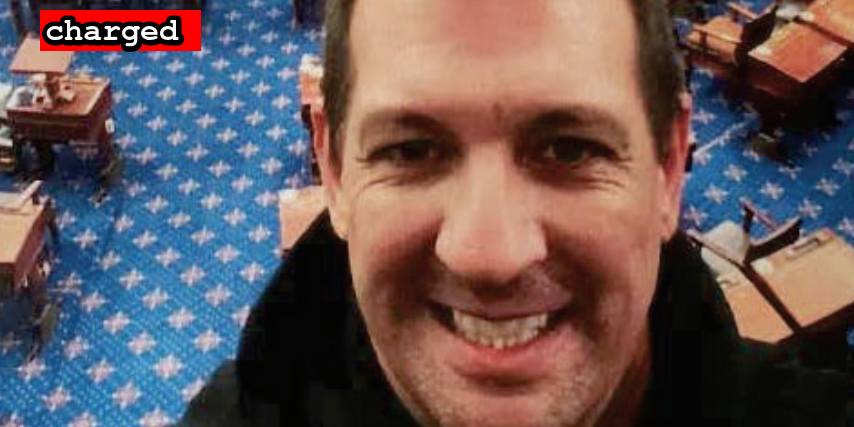
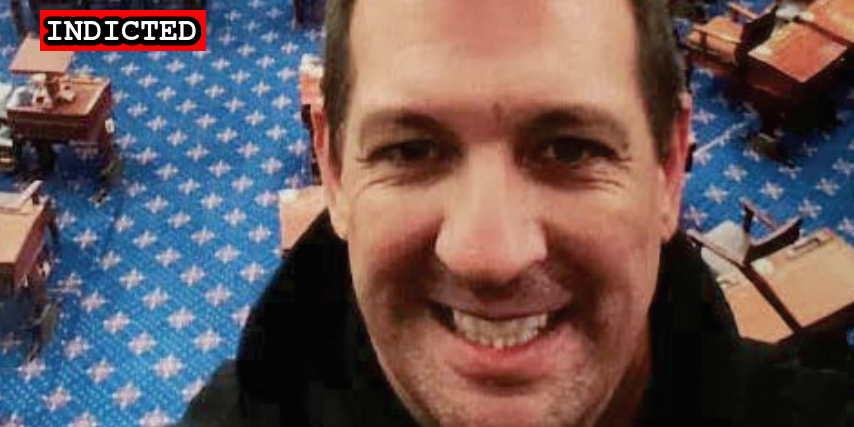
New suspects and indictments

Changed region(s): [[0.0304, 0.0304, 0.2436, 0.1218]]

diff --git a/docs/_suspects/benjamin-torre.md b/docs/_suspects/benjamin-torre.md
@@ -1,0 +1,30 @@
+---
+name: Benjamin Torre
+lastName: Torre
+aka:
+residence:
+status: Charged
+date: 2021-02-02
+charged: 2021-02-02
+indicted:
+age:
+occupation:
+affiliations:
+jurisdiction: Federal
+image: /images/preview/benjamin-torre.jpg
+suspect: benjamin-torre.jpg
+booking:
+courtroom:
+courthouse:
+raid:
+perpwalk:
+quote:
+title: Benjamin Torre charged on February 9th, 2021
+description: Click for latest case details. Suspects innocent until proven guilty.
+author: seditiontrack
+layout: suspect
+published: false
+charges:
+---
+- [News Report]()
+- [Statement of Facts](https://www.justice.gov/usao-dc/case-multi-defendant/file/1365776/download)

diff --git a/docs/_suspects/couy-griffin.md b/docs/_suspects/couy-griffin.md
@@ -3,7 +3,7 @@ name: Couy Griffin
 lastName: Griffin
 aka:
 residence: New Mexico
-status: Charged
+status: Indicted
 date: 2021-01-17
 charged: 2021-01-17
 indicted:
@@ -34,3 +34,4 @@ charges:
 - [DOJ Press Release](https://www.justice.gov/usao-dc/pr/new-mexico-county-commissioner-charged-breaching-us-capitol)
 - [Statement of Facts](https://www.justice.gov/opa/page/file/1355981/download)
 - [Detention Memo](https://extremism.gwu.edu/sites/g/files/zaxdzs2191/f/Couy%20Griffin%20Government%20Memorandum%20in%20Support%20of%20Pretrial%20Detention.pdf)
+- [Indictment](https://www.justice.gov/usao-dc/case-multi-defendant/file/1365786/download)

diff --git a/docs/_suspects/nathaniel-degrave.md b/docs/_suspects/nathaniel-degrave.md
@@ -3,7 +3,7 @@ name: Nathaniel Degrave
 lastName: Degrave
 aka:
 residence: Las Vegas
-status: Charged
+status: Indicted
 date: 2021-01-28
 charged: 2021-01-28
 indicted:
@@ -29,3 +29,4 @@ charges:
 - [NewsReport](https://www.8newsnow.com/i-team/i-team-special-reports/i-team-las-vegas-nevada-man-accused-of-taking-part-in-capitol-riot-called-president-trump-his-idol-fbi/)
 - [Complaint](https://www.justice.gov/opa/page/file/1362391/download)
 - [Statement of Facts](https://www.justice.gov/opa/page/file/1362391/download)
+- [Indictment](https://www.justice.gov/usao-dc/case-multi-defendant/file/1365791/download)

diff --git a/docs/_suspects/anthony-mariotto.md b/docs/_suspects/anthony-mariotto.md
@@ -3,7 +3,7 @@ name: Anthony Mariotto
 lastName: Mariotto
 aka:
 residence: Florida
-status: Charged
+status: Indicted
 date: 2021-01-22
 charged: 2021-01-22
 indicted:
@@ -29,3 +29,4 @@ charges:
 - [News Report](https://floridadailypost.com/fort-pierce-man-faces-capitol-riot-charges-posting-images/)
 - [Complaint](https://www.justice.gov/opa/page/file/1359631/download)
 - [Statement of Facts](https://www.justice.gov/opa/page/file/1359631/download)
+- [Indictment](https://www.justice.gov/usao-dc/case-multi-defendant/file/1365781/download)
